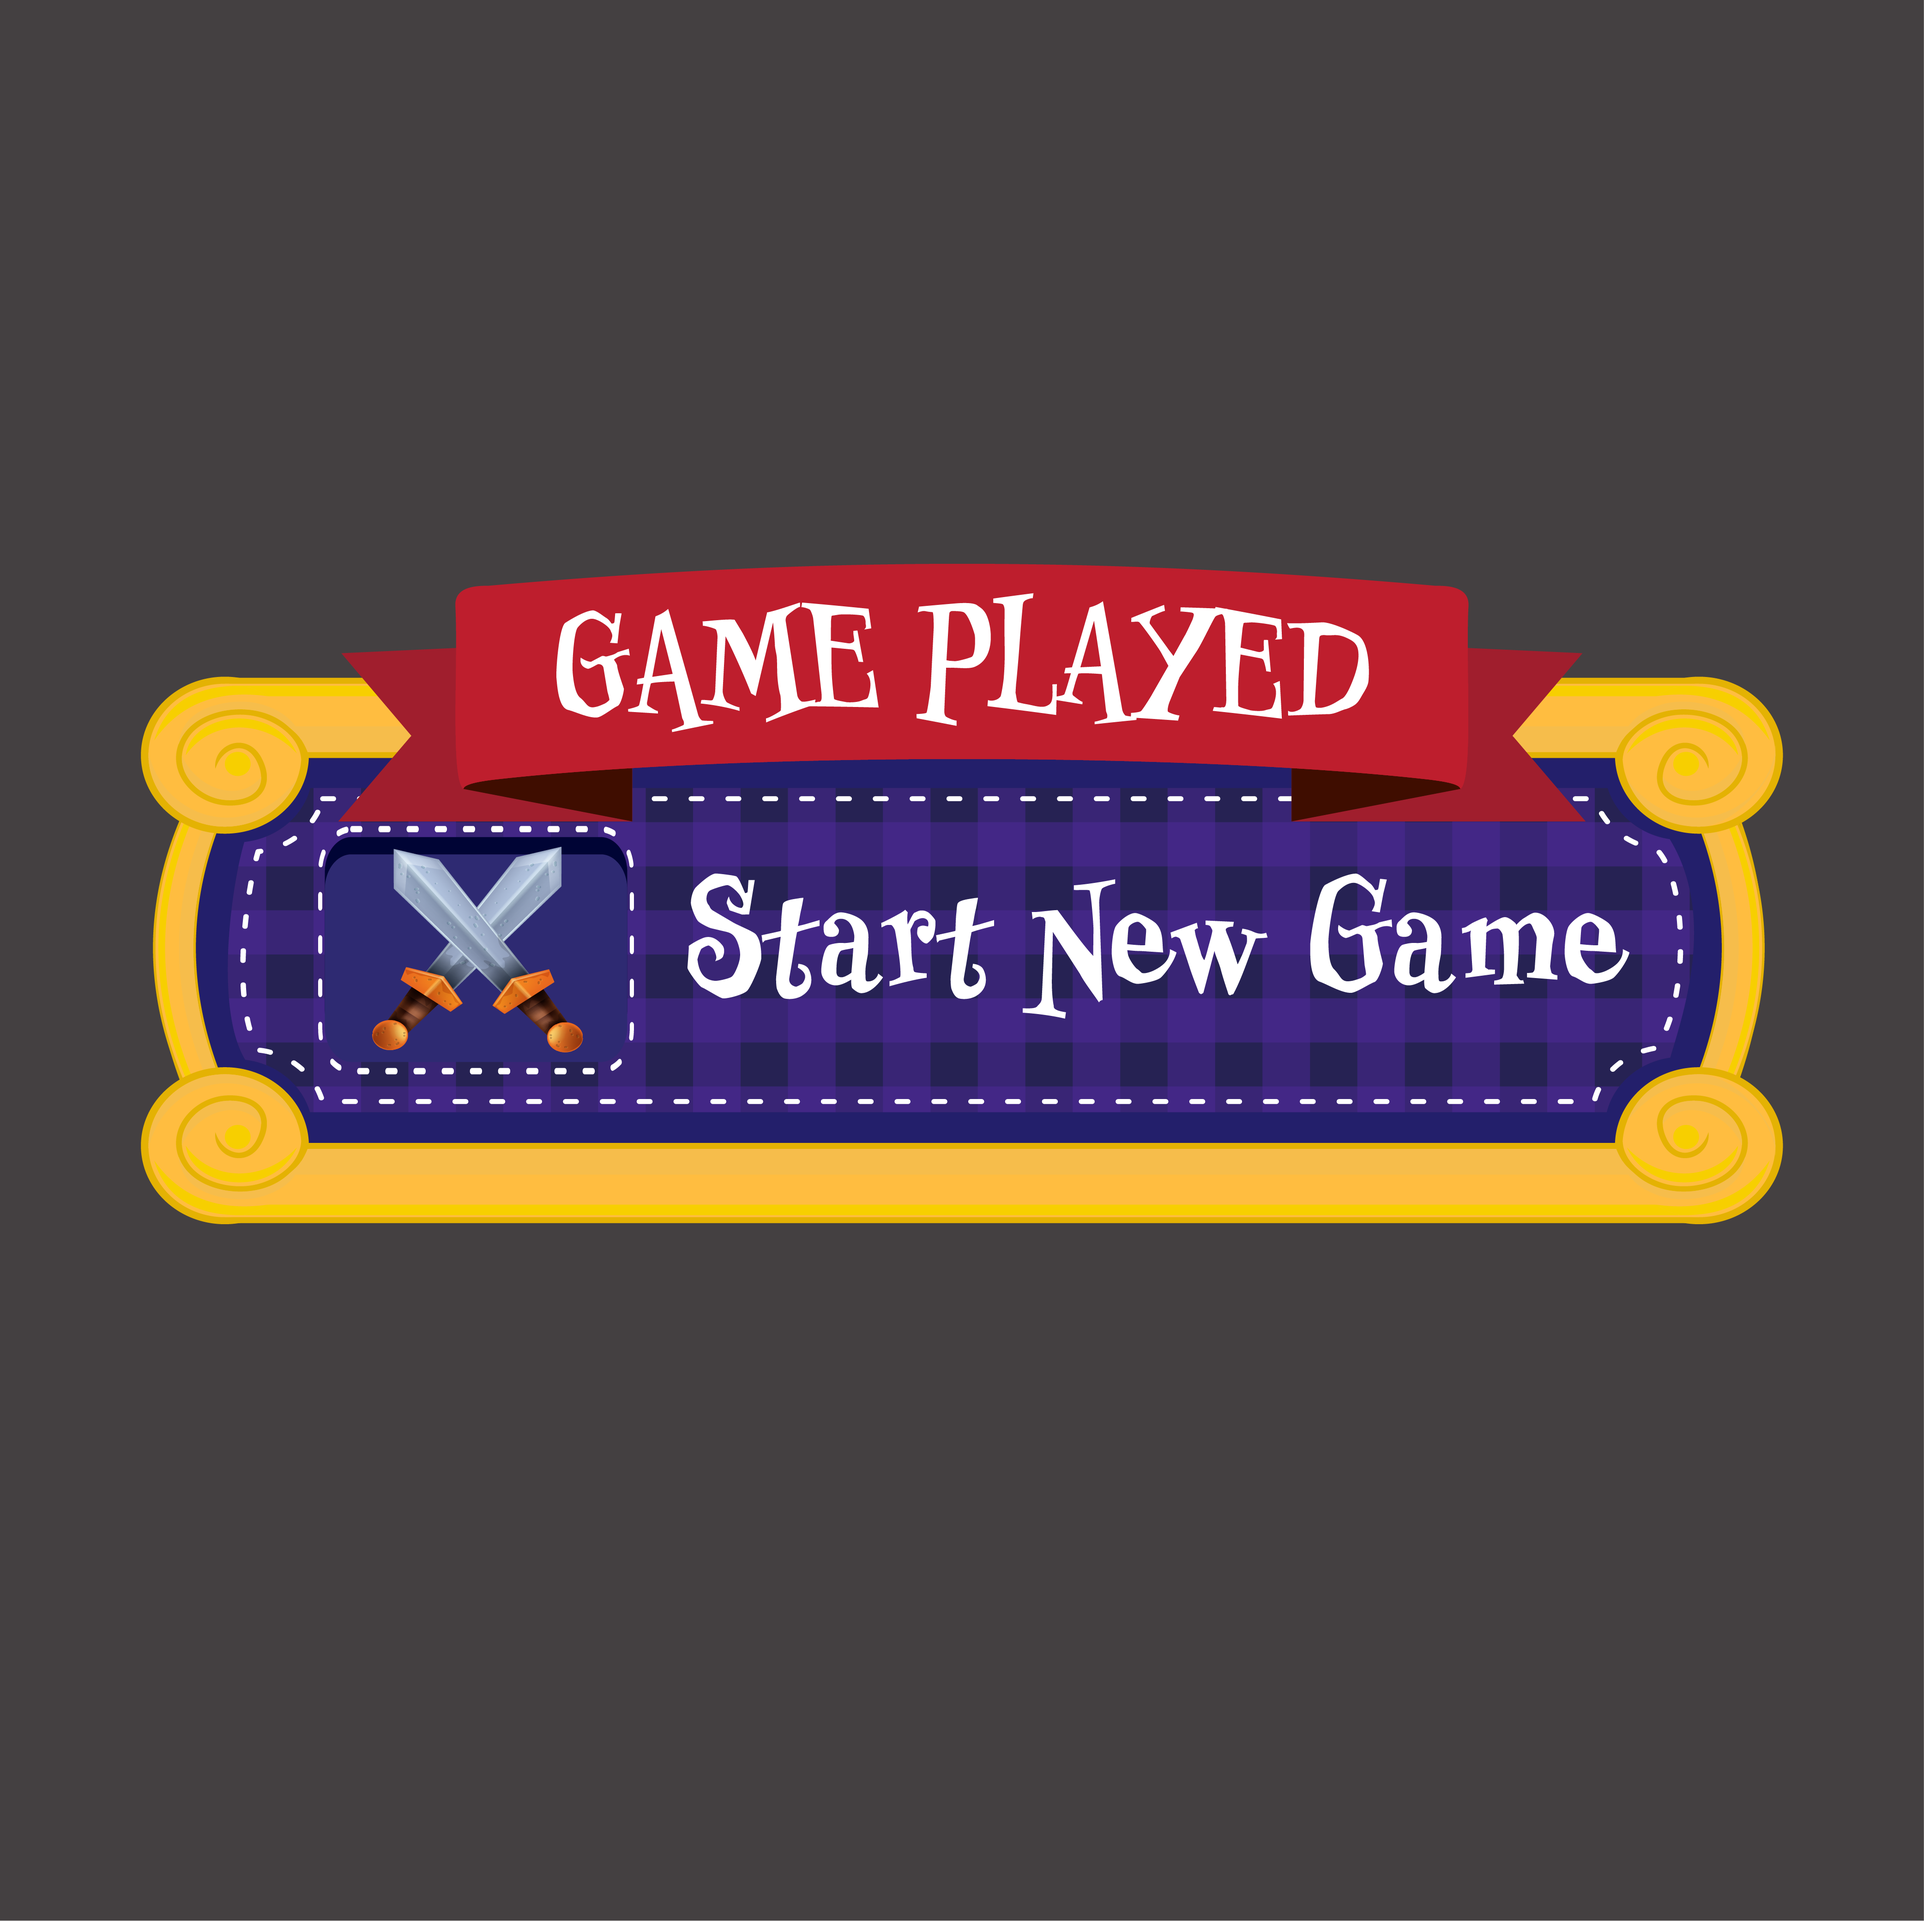
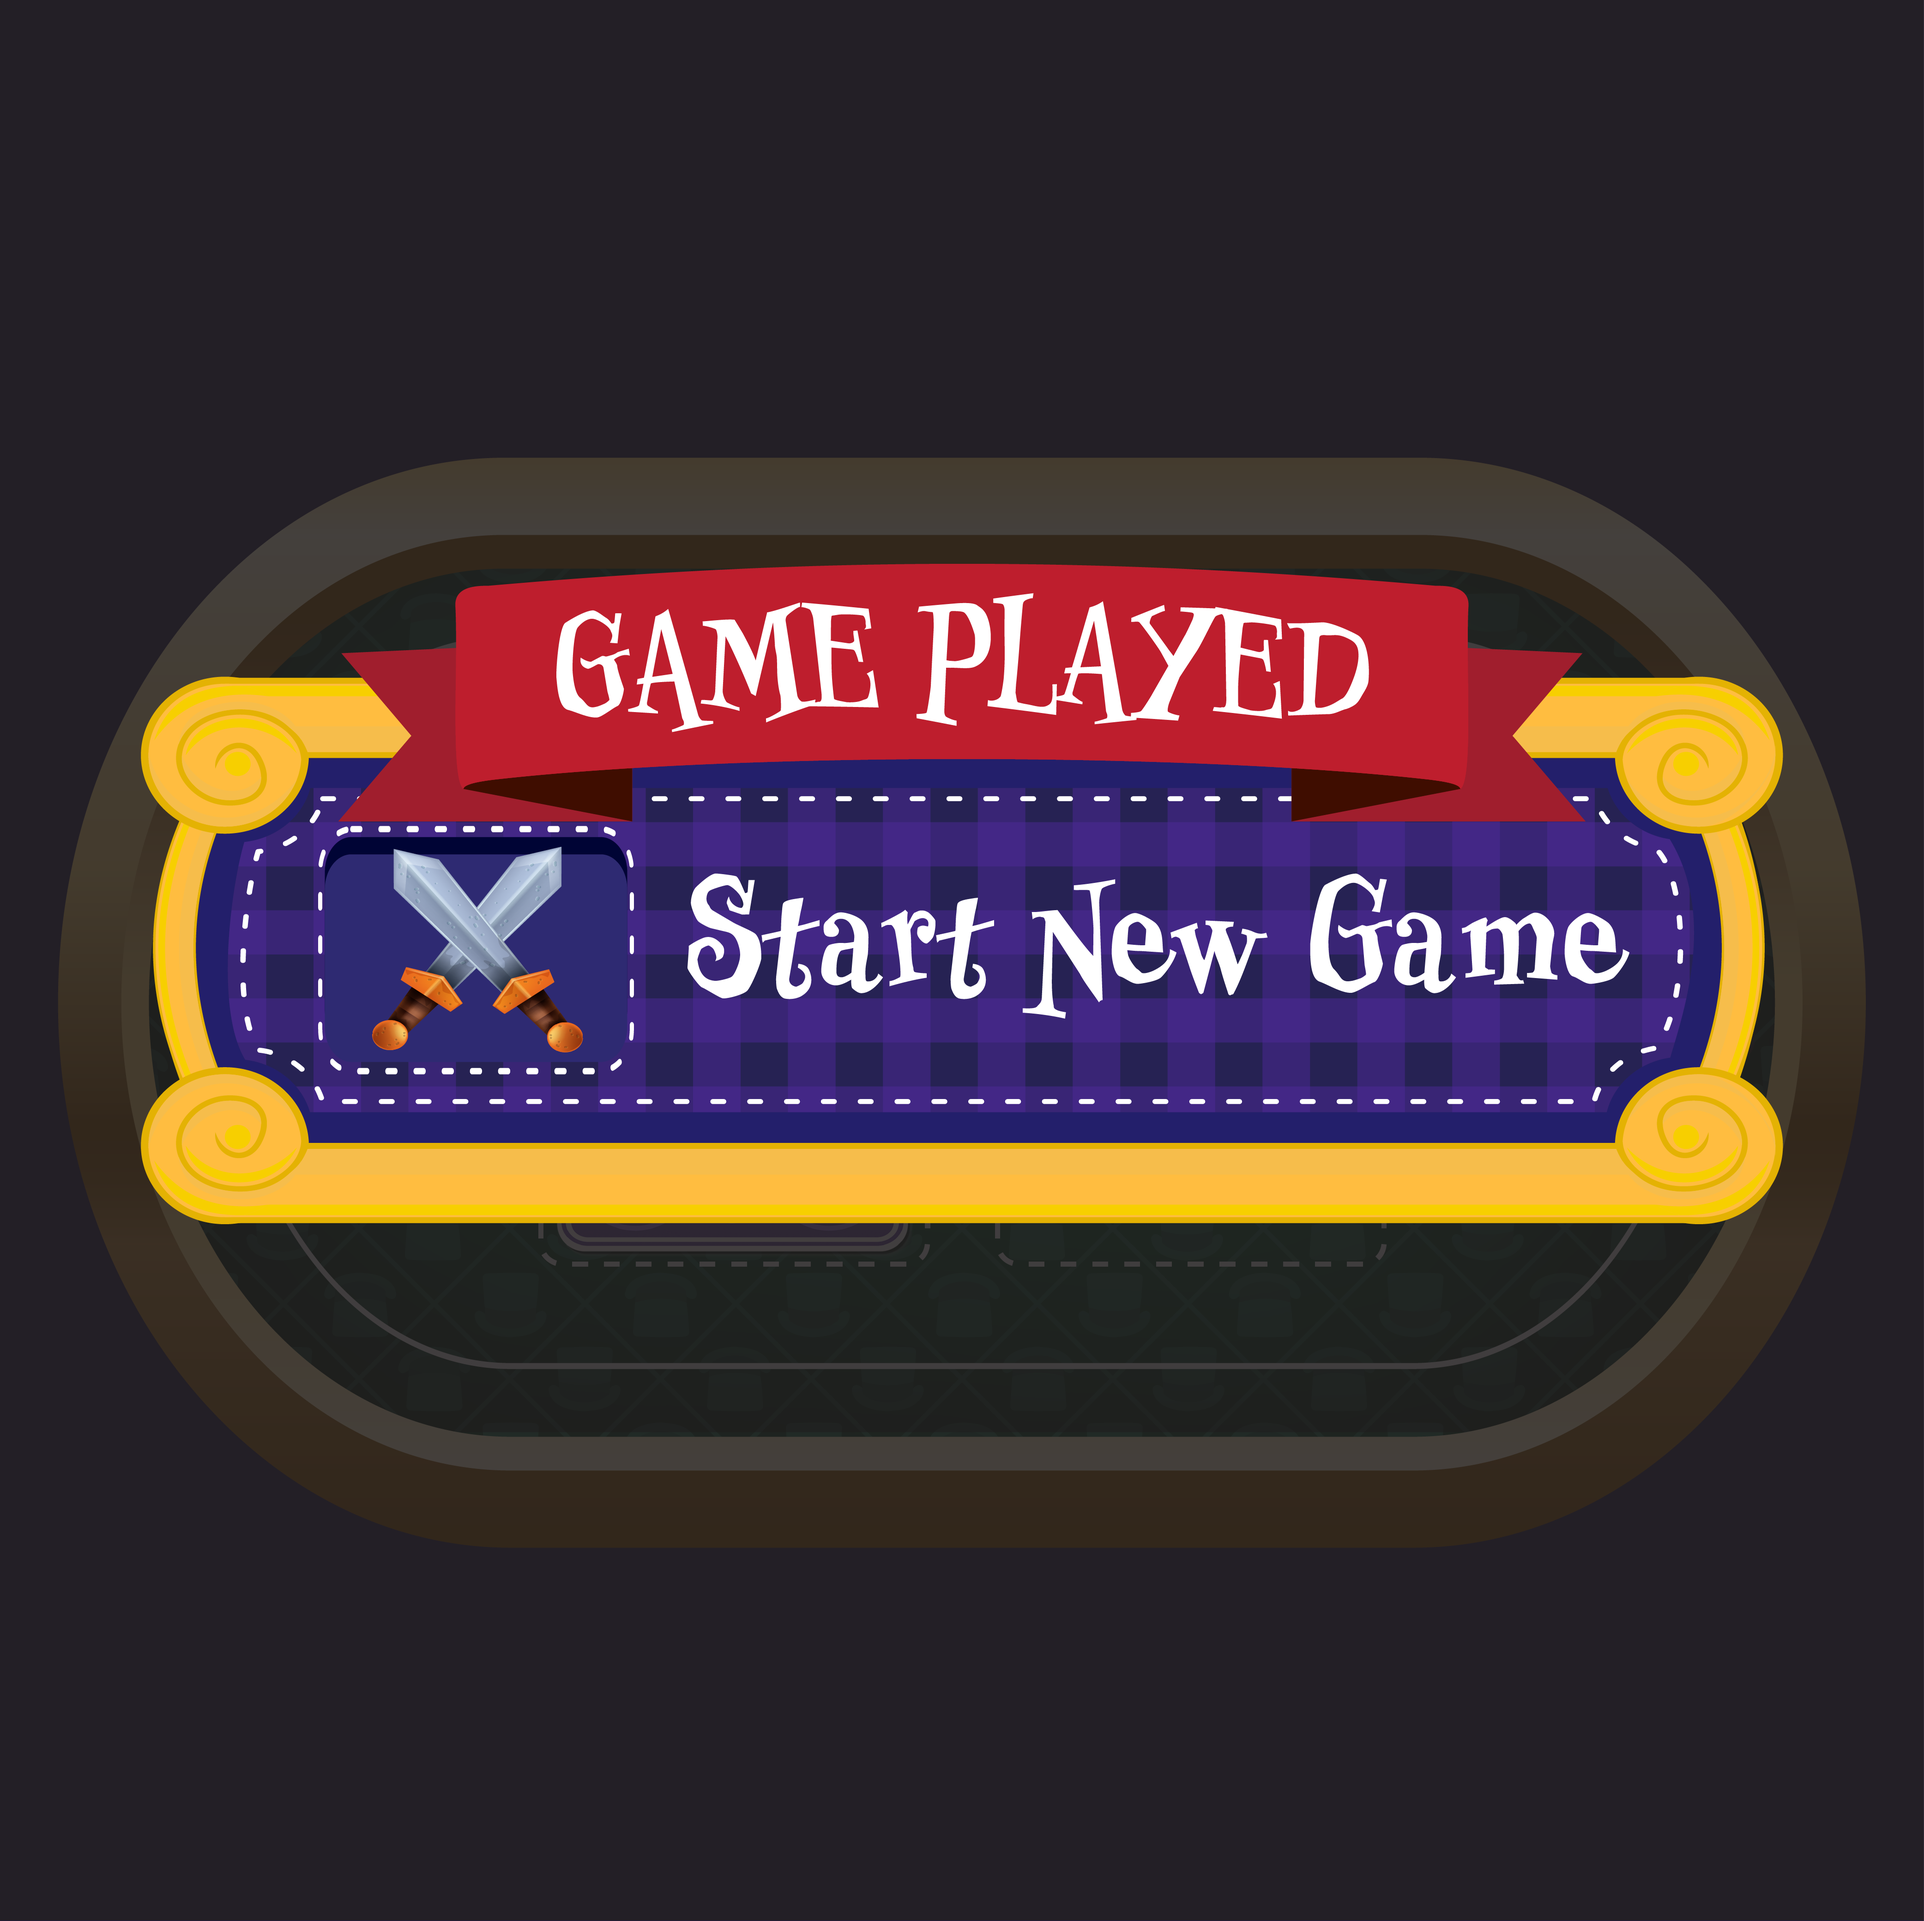
Game Playedの画像はgame情報ベースに生成せず、Expiredと同様にテンプレート画像をそのまま使う

diff --git a/frame/api/war.tsx b/frame/api/war.tsx
@@ -645,17 +645,9 @@ const challengeFrame = async (
     prevState.gameId = gameId;
   });
 
-  const status = await warContract.read.gameStatus([gameId]);
-  let imageUrl;
-
-  // status
-  // 0. NotExist,
-  // 1. Created,
-  // 2. Challenged,
-  // 3. Revealed,
-  // 4. Expired
-  if (status.toString() === '1') {
-    imageUrl =
+  return c.res({
+    title,
+    image:
       '/war/image/challenge/' +
       encodeURIComponent(
         JSON.stringify({
@@ -664,29 +656,7 @@ const challengeFrame = async (
           wager,
           gameId,
         }),
-      );
-  } else if (status.toString() == '2' || status.toString() == '3') {
-    imageUrl =
-      '/war/image/played/' +
-      encodeURIComponent(
-        JSON.stringify({
-          userName,
-          pfp_url,
-          wager,
-          status,
-          card: gameInfo.card,
-          c_userName: gameInfo.c_userName,
-          c_pfp_url: gameInfo.c_pfp_url,
-          c_card: gameInfo.c_card,
-        }),
-      );
-  } else {
-    imageUrl = '/war/image/expired';
-  }
-
-  return c.res({
-    title,
-    image: imageUrl,
+      ),
     imageAspectRatio: '1:1',
     intents: [<Button action={`/choose/${params}`}>Start</Button>],
   });
@@ -1059,48 +1029,29 @@ warApp.hono.get('/image/error/:params', async (c) => {
   return c.newResponse(image, 200, { 'Content-Type': 'image/png' });
 });
 
-warApp.hono.get('/image/played/:params', async (c) => {
-  const params = JSON.parse(decodeURIComponent(c.req.param('params')));
-  const {
-    userName,
-    pfp_url,
-    wager,
-    card,
-    status,
-    c_userName,
-    c_pfp_url,
-    c_card,
-  } = params;
-
-  const png = await generatePlayedGameImage({
-    userName,
-    pfp_url,
-    wager,
-    status,
-    card,
-    c_userName,
-    c_pfp_url,
-    c_card,
-  });
-  const response = c.newResponse(png, 200, {
-    'Content-Type': 'image/png',
-  });
-  return response;
-});
-
-warApp.hono.get('/image/expired', async (c) => {
-  const png = await generateExpiredSimpleImage();
-  const response = c.newResponse(png, 200, {
-    'Content-Type': 'image/png',
-  });
-  return response;
-});
-
 warApp.hono.get('/image/challenge/:params', async (c) => {
   const params = JSON.parse(decodeURIComponent(c.req.param('params')));
   const { userName, pfp_url, wager, gameId } = params;
 
-  let png = await generateChallengeImage(true, userName, pfp_url, wager);
+  const status = await warContract.read.gameStatus([gameId]);
+  // const gameInfo = await getGameInfoByGameId(gameId);
+
+  // status
+  // 0. NotExist,
+  // 1. Created,
+  // 2. Challenged,
+  // 3. Revealed,
+  // 4. Expired
+
+  let png;
+
+  if (status.toString() == '1') {
+    png = await generateChallengeImage(true, userName, pfp_url, wager);
+  } else if (status.toString() == '2' || status.toString() == '3') {
+    png = await generatePlayedSimpleImage();
+  } else {
+    png = await generateExpiredSimpleImage();
+  }
 
   const response = c.newResponse(png, 200, {
     'Content-Type': 'image/png',
@@ -1536,165 +1487,6 @@ const generateChallengeImage = async (
   return png;
 };
 
-const generatePlayedGameImage = async ({
-  userName,
-  pfp_url,
-  wager,
-  status,
-  card,
-  c_userName,
-  c_pfp_url,
-  c_card,
-}: {
-  userName: string;
-  pfp_url: string;
-  wager: number;
-  status: number;
-  card?: number;
-  c_userName?: string;
-  c_pfp_url?: string;
-  c_card?: number;
-}) => {
-  let backgroundImageBuffer;
-
-  if (status === 2) {
-    backgroundImageBuffer = await generateChallengeImage(
-      true,
-      userName,
-      pfp_url,
-      wager,
-    );
-  } else if (status === 3) {
-    backgroundImageBuffer = await generateResultBgImage(
-      userName,
-      pfp_url,
-      card || 0,
-      wager,
-      c_userName!,
-      c_pfp_url!,
-      c_card || 0,
-    );
-  }
-
-  console.log(card, c_card);
-  const isBet = wager > 0;
-
-  let imageName = isBet ? 'fin_make_bet.png' : 'fin_make.png';
-
-  const response = await fetch(pfp_url);
-  const pfpBuffer = await response.arrayBuffer();
-
-  const canvas = sharp('./public/images/war/' + imageName).resize(1000, 1000);
-  // const canvas = backgroundImageBuffer;
-
-  let leftUserTop = 479;
-  if (!isBet) {
-    leftUserTop += 48;
-  }
-
-  const pfpSize = 42;
-  const userNameFontSize = 20;
-
-  const topPfpSize = 75;
-  const topUserNameFontSize = 40;
-
-  const circleMask = Buffer.from(
-    `<svg><circle cx="${pfpSize / 2}" cy="${pfpSize / 2}" r="${
-      pfpSize / 2
-    }" /></svg>`,
-  );
-
-  const pfpImage = await sharp(pfpBuffer)
-    .resize(pfpSize, pfpSize)
-    .composite([{ input: circleMask, blend: 'dest-in' }])
-    .png()
-    .toBuffer();
-
-  const svgText = `
-    <svg width="500" height="${pfpSize}">
-      <text x="0" y="50%" dy="0.35em" font-family="Arial" font-size="${userNameFontSize}" fill="white">${userName}</text>
-    </svg>
-  `;
-
-  const userNameImage = await sharp(Buffer.from(svgText)).png().toBuffer();
-
-  const wagerImage = await sharp({
-    text: {
-      text: `<span foreground="white" letter_spacing="1000">${wager} $DEGEN</span>`,
-      font: 'Bigelow Rules',
-      fontfile: './public/fonts/BigelowRules-Regular.ttf',
-      rgba: true,
-      width: 550,
-      height: 68,
-      align: 'left',
-    },
-  })
-    .png()
-    .toBuffer();
-
-  const topCircleMask = Buffer.from(
-    `<svg><circle cx="${topPfpSize / 2}" cy="${topPfpSize / 2}" r="${
-      topPfpSize / 2
-    }" /></svg>`,
-  );
-
-  const topPfpImage = await sharp(pfpBuffer)
-    .resize(topPfpSize, topPfpSize)
-    .composite([{ input: topCircleMask, blend: 'dest-in' }])
-    .png()
-    .toBuffer();
-
-  const topSvgText = `
-    <svg width="500" height="${topPfpSize}">
-      <text x="0" y="50%" dy="0.35em" font-family="Arial" font-size="${topUserNameFontSize}" fill="white">${userName}</text>
-    </svg>
-  `;
-
-  const topUserNameImage = await sharp(Buffer.from(topSvgText))
-    .png()
-    .toBuffer();
-
-  const composites = [
-    {
-      input: backgroundImageBuffer,
-      gravity: 'center',
-    },
-    {
-      input: pfpImage,
-      left: 58,
-      top: leftUserTop,
-    },
-    {
-      input: userNameImage,
-      left: 57 + pfpSize + 10,
-      top: leftUserTop,
-    },
-    {
-      input: topPfpImage,
-      left: 566,
-      top: 77,
-    },
-    {
-      input: topUserNameImage,
-      left: 566 + topPfpSize + 20,
-      top: 77,
-    },
-  ];
-
-  if (isBet) {
-    composites.push({ input: wagerImage, left: 500, top: 888 });
-  }
-
-  const overlayImage = await sharp('./public/images/war/played.png')
-    .resize(1000, 1000)
-    .toBuffer();
-
-  composites.push({ input: overlayImage, left: 0, top: 0 });
-
-  const png = await canvas.composite(composites).png().toBuffer();
-  return png;
-};
-
 const generateUserComponent = async (userName: string, pfp_url: string) => {
   const response = await fetch(pfp_url);
   const pfpBuffer = await response.arrayBuffer();
@@ -1796,6 +1588,12 @@ const generatePreviewImage = async (
   return png;
 };
 
+const generatePlayedSimpleImage = async () => {
+  const canvas = sharp('./public/images/war/played.png').resize(1000, 1000);
+
+  const png = await canvas.png().toBuffer();
+  return png;
+};
 const generateExpiredSimpleImage = async () => {
   const canvas = sharp('./public/images/war/expired.png').resize(1000, 1000);
 
